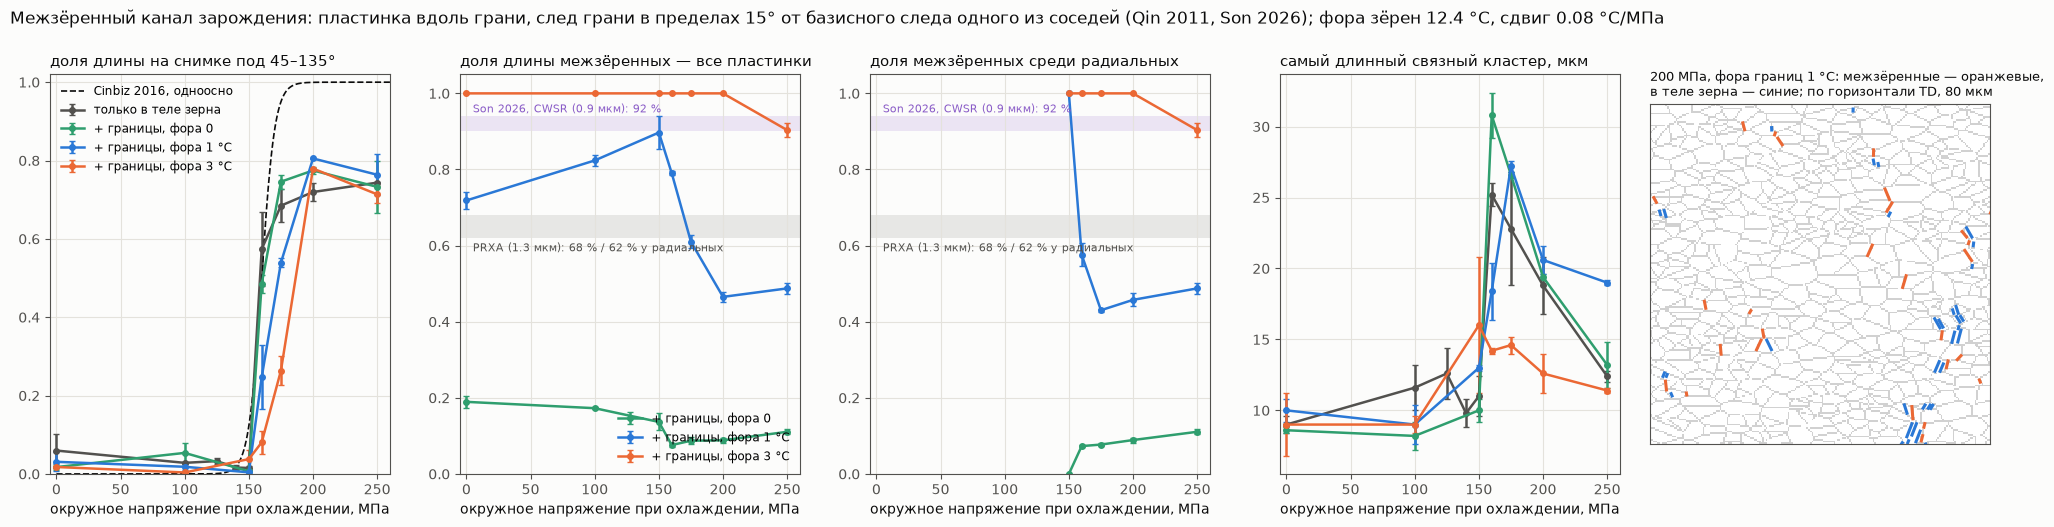
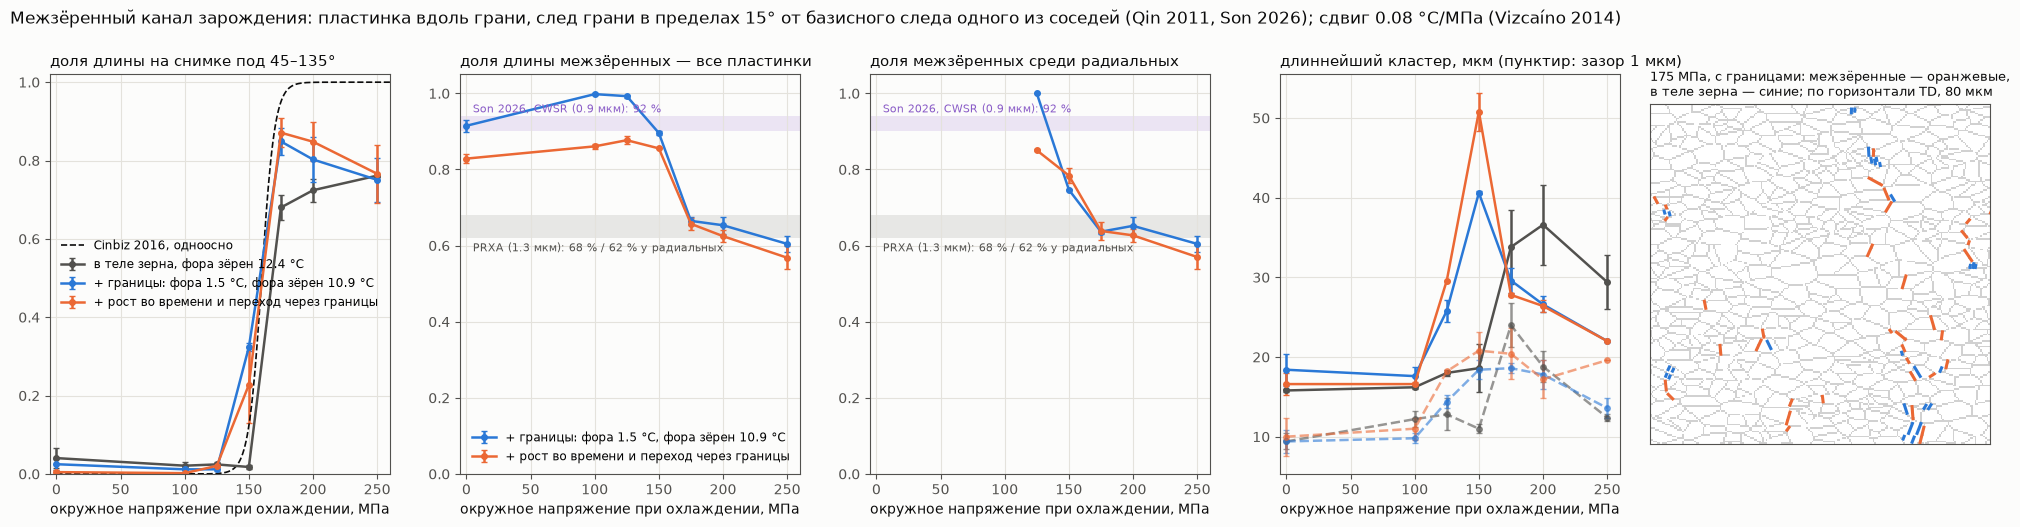
hydrides: межзёренный канал — проверка по Son 2026, рост во времени, рис. 18
- фора границы 1.5 °C из теории зарождения (энергии границ Jo 2025, фактор
  формы 0.22), без подгонки; фора зёрен перенормирована 12.4 → 10.9 °C;
- доля межзёренных 0.91 без нагрузки (Son CWSR 0.92), среди радиальных
  0.60–0.65 (Son PRXA 0.62); порог раздваивается (136 и 155 МПа), переход
  шире, потолок на снимке 0.85 вместо 0.68 при 175 МПа;
- рост во времени с переходом через границы: ошибка Lepine+Cinbiz 0.114;
- связность почти не меняется (20–50 мкм с зазором 3 мкм);
- скорость охлаждения (Min 2013) по-прежнему не воспроизводится — записано
  объяснение и что нужно из опыта; обновлён список «Что дальше».

Claude-Session: https://claude.ai/code/session_01UkwPYpG7i1Euptx7URcKD8

diff --git a/hydrides/automaton/fig_gb.py b/hydrides/automaton/fig_gb.py
@@ -1,5 +1,5 @@
 """Рис. 18: межзёренный канал в кинетическом движке — RHF, доля межзёренных (против Son и др. 2026),
-связность и снимок структуры. python fig_gb.py папка_без_границ папка_с_границами [σ снимка] [фора снимка]"""
+связность и снимок структуры. python fig_gb.py папка [σ снимка]"""
 import os
 import sys
 import json
@@ -20,27 +20,19 @@ BLUE, ORANGE, GREEN, VIOLET, INK, MUTED, BG, GRID = ("#2a78d6", "#eb6834", "#2f9
                                                      "#0b0b0b", "#52514e", "#fcfcfb", "#e4e2dc")
 plt.rcParams.update({"font.family": "DejaVu Sans", "font.size": 10, "axes.edgecolor": MUTED, "axes.labelcolor": INK,
                      "xtick.color": MUTED, "ytick.color": MUTED})
-D0, D1 = sys.argv[1], sys.argv[2]
-S_SNAP = int(sys.argv[3]) if len(sys.argv) > 3 else 200
-G_SNAP = float(sys.argv[4]) if len(sys.argv) > 4 else 3.0
+D = sys.argv[1]
+S_SNAP = int(sys.argv[2]) if len(sys.argv) > 2 else 175
 runs = defaultdict(lambda: defaultdict(list))
-for d, gb in ((D0, False), (D1, True)):
-    for f in glob.glob(d + "/*.json"):
-        m = json.load(open(f))
-        if m.get("bias_dT") != 12.4 or m.get("sigma_cap") != 180.0 or m.get("dT_s", 0.0) != 0.0:
-            continue
-        key = ("gb", m["gb_dT"]) if m.get("gb") else ("intra", None)
-        if gb != (key[0] == "gb"):
-            continue
-        n = int(round(m.get("size_um", [240.0])[0] / m.get("dx", 0.4))) if isinstance(m.get("size_um"), list) else 600
-        P = np.load(f[:-5] + ".npz")["plates"]
-        c = metrics_of(P, (n, n), 0.4)
-        m.update({k: v for k, v in c.items() if k != "extents"})
-        runs[key][int(m["sigma_app"])].append(m)
-VAR = [(("intra", None), MUTED, "только в теле зерна"),
-       (("gb", 0.0), GREEN, "+ границы, фора 0"),
-       (("gb", 1.0), BLUE, "+ границы, фора 1 °C"),
-       (("gb", 3.0), ORANGE, "+ границы, фора 3 °C")]
+for f in glob.glob(D + "/*.json"):
+    m = json.load(open(f))
+    P = np.load(f[:-5] + ".npz")["plates"]
+    for g in (1.0, 3.0):
+        c = metrics_of(P, (600, 600), 0.4, gap_um=g)
+        m[f"L{g:.0f}"] = c["L_cluster_max"]
+    runs[(bool(m.get("gb", False)), bool(m.get("grow_kin", False)))][int(m["sigma_app"])].append(m)
+VAR = [((False, False), MUTED, "в теле зерна, фора зёрен 12.4 °C"),
+       ((True, False), BLUE, "+ границы: фора 1.5 °C, фора зёрен 10.9 °C"),
+       ((True, True), ORANGE, "+ рост во времени и переход через границы")]
 
 
 def curve(ax, key, field, **kw):
@@ -56,8 +48,9 @@ ax_img = fig.add_axes([0.83, 0.08, 0.17, 0.82])
 for k, c, lab in VAR:
     if k in runs:
         curve(axs[0], k, "Fn45_image", color=c, label=lab)
-        curve(axs[3], k, "L_cluster_max", color=c, label=lab)
-        if k[0] == "gb":
+        curve(axs[3], k, "L3", color=c, label=lab + ", зазор 3 мкм")
+        curve(axs[3], k, "L1", color=c, ls="--", alpha=0.6)
+        if k[0]:
             curve(axs[1], k, "GB_frac", color=c, label=lab)
             curve(axs[2], k, "GB_frac_rad", color=c, label=lab)
 x = np.linspace(0, 260, 300)
@@ -72,17 +65,16 @@ for ax in axs[1:3]:
     ax.set_ylim(0, 1.05)
 axs[1].set_title("доля длины межзёренных — все пластинки", loc="left", fontsize=10.5, color=INK)
 axs[2].set_title("доля межзёренных среди радиальных", loc="left", fontsize=10.5, color=INK)
-axs[3].set_title("самый длинный связный кластер, мкм", loc="left", fontsize=10.5, color=INK)
+axs[3].set_title("длиннейший кластер, мкм (пунктир: зазор 1 мкм)", loc="left", fontsize=10.5, color=INK)
 for ax in axs:
     ax.set_xlabel("окружное напряжение при охлаждении, МПа"); ax.set_xlim(-5, 260); ax.grid(color=GRID)
     ax.set_facecolor(BG)
-axs[0].legend(frameon=False, fontsize=8.5, loc="upper left")
+axs[0].legend(frameon=False, fontsize=8.5, loc="center left")
 axs[1].legend(frameon=False, fontsize=8.5, loc="lower right")
 # снимок: границы зёрен и пластинки, кусок 80 × 80 мкм
-f = [g for g in glob.glob(D1 + "/*.json") if json.load(open(g)).get("gb_dT") == G_SNAP
-     and int(json.load(open(g))["sigma_app"]) == S_SNAP and json.load(open(g))["seed"] == 1]
+f = sorted(glob.glob(D + f"/bias_dT10.9_gbTrue_gb_dT1.5_seed1_sigma_app{S_SNAP}.json"))
 if f:
-    m = json.load(open(f[0])); z = np.load(f[0][:-5] + ".npz")
+    z = np.load(f[0][:-5] + ".npz")
     p = KParams(seed=1)
     grains, gpsi, gbd = make_grains(p, np.random.default_rng(1), gb=True)
     ny, nx = grains.shape
@@ -97,10 +89,10 @@ if f:
         ax_img.plot([cx - half * tx, cx + half * tx], [cy - half * ty, cy + half * ty], lw=2.2,
                     color=ORANGE if kd == 1 else BLUE, solid_capstyle="butt")
     ax_img.set_xlim(0, 80); ax_img.set_ylim(80, 0); ax_img.set_xticks([]); ax_img.set_yticks([])
-    ax_img.set_title(f"{S_SNAP} МПа, фора границ {G_SNAP:g} °C: межзёренные — оранжевые,\nв теле зерна — синие; "
+    ax_img.set_title(f"{S_SNAP} МПа, с границами: межзёренные — оранжевые,\nв теле зерна — синие; "
                      f"по горизонтали TD, 80 мкм", loc="left", fontsize=9, color=INK)
 fig.suptitle("Межзёренный канал зарождения: пластинка вдоль грани, след грани в пределах 15° от базисного следа "
-             "одного из соседей (Qin 2011, Son 2026); фора зёрен 12.4 °C, сдвиг 0.08 °C/МПа", x=0.01, ha="left",
+             "одного из соседей (Qin 2011, Son 2026); сдвиг 0.08 °C/МПа (Vizcaíno 2014)", x=0.01, ha="left",
              fontsize=12, color=INK)
 fig.savefig(os.path.join(HERE, "figs", "fig18_gb.png"), dpi=100, facecolor=BG, bbox_inches="tight")
 for k, _, lab in VAR:
@@ -108,6 +100,6 @@ for k, _, lab in VAR:
         continue
     s = sorted(runs[k])
     print(lab)
-    for fld in ("RHF_image", "Fn45_image", "GB_frac", "GB_frac_rad", "GB_frac_circ", "L_cluster_max", "RHCF", "HCC_rad_mean", "RHCP"):
+    for fld in ("RHF_image", "Fn45_image", "GB_frac", "GB_frac_rad", "GB_frac_circ", "L1", "L3"):
         if fld in runs[k][s[0]][0]:
             print(f"  {fld:14s}" + " ".join(f"{q}:{np.nanmean([m[fld] for m in runs[k][q]]):.2f}" for q in s))

diff --git a/hydrides/automaton/calib_kin_report.py b/hydrides/automaton/calib_kin_report.py
@@ -7,7 +7,7 @@ from collections import defaultdict
 import numpy as np
 from calib_beta_report import LEP, cinbiz
 
-KEYS = ("bias_dT", "app_dT", "B", "Delta0", "sigma_cap")
+KEYS = ("bias_dT", "app_dT", "B", "Delta0", "sigma_cap", "gb", "gb_dT", "grow_kin", "dT_s")
 
 
 def table(d):
